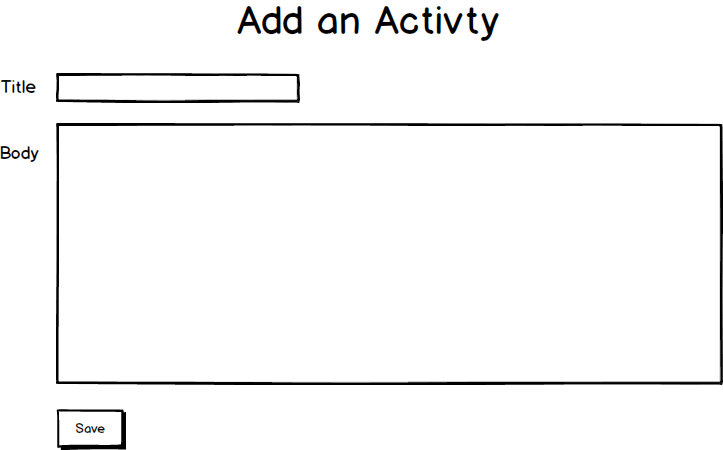
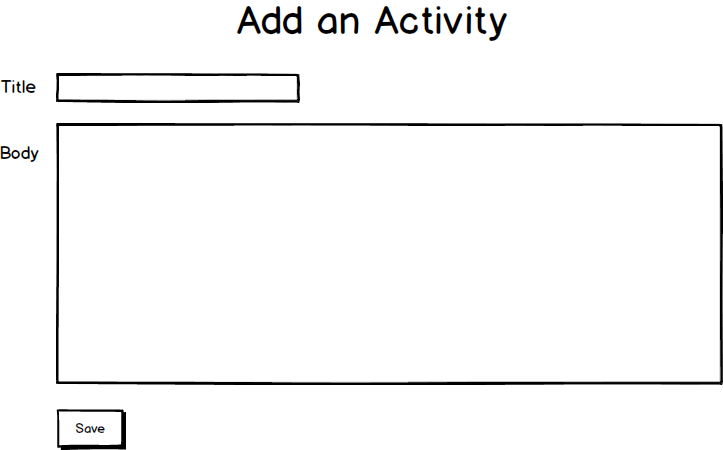
Created the UI for the add activity page

Changed region(s): [[0.3347, 0.0, 0.6999, 0.0933]]

diff --git a/UI/add_activity.html b/UI/add_activity.html
@@ -6,7 +6,7 @@
         <link rel="stylesheet" type="text/css" href="style.css">
     </head>
     <body>
-        <!--Navbar-->
+        <!--navbar-->
         <nav class="navbar navbar-inverse">
             <div class="container">
                 <div class="navbar-header">
@@ -24,26 +24,24 @@
                 </div>
             </div>
         </nav>
+        <!--form for add-activity page-->
         <div class="container">
-            <!--The Login Form-->
-            <div class="well login">
-                <h1>Log In</h1>
-                <form class="login">
-                    <div class="form-group">
-                        <label for="email">Username</label>
-                        <input type="email" class="form-control" id="usr">
+            <h1>Add an Activity</h1>
+            <form class="activity">
+                <div class="form-group">
+                    <div class="col-xs-2">
+                        <label for="inputsm">Title</label>
+                        <input class="form-control input-sm" id="inputsm" type="text">
                     </div>
-                    <div class="form-group">
-                        <label for="pwd">Password:</label>
-                        <input type="password" class="form-control" id="pwd">
-                    </div>
-                    <div class="checkbox">
-                        <label><input type="checkbox"> Remember me</label>
-                    </div>
-                </form>
-                <button class="btn-info btn-lg">Log In</button>
-            </div>
-        </div>
+                </div>
+            </form>
+            <form>
+                <div class="form-group body">
+                    <label for="activity">Body</label>
+                    <textarea class="form-control" rows="5" id="comment"></textarea>
+                </div>
+            </form>
+            <button class="btn btn-lg btn-info btn-save">Save</button>
         </div>
         <script src="https://maxcdn.bootstrapcdn.com/bootstrap/3.3.7/js/bootstrap.min.js"></script>
     </body>

diff --git a/UI/signup.html b/UI/signup.html
@@ -26,9 +26,9 @@
         </nav>
         <div class="container">
             <!--The Sign Up Form-->
-            <div class="well">
+            <div class="well sign-up">
                 <h1>Sign Up</h1>
-                <form>
+                <form class="sign-up">
                     <div class="form-group">
                         <label for="email">Name:</label>
                         <input type="email" class="form-control" id="usr">

diff --git a/UI/style.css b/UI/style.css
@@ -1,7 +1,24 @@
-form {
+form.login {
     width: 20em;
 }
-.well {
+form.sign-up {
+    width: 20em;
+}
+.body {
+    margin-top: 100px;
+    margin-left: 13px;
+}
+.btn-save {
+    margin-left: 10px;
+}
+.sign-up {
     width: 350px;
     margin: 0 auto;
+}
+.login {
+    width: 350px;
+    margin: 0 auto;
+}
+h1 {
+    text-align: center;
 }
